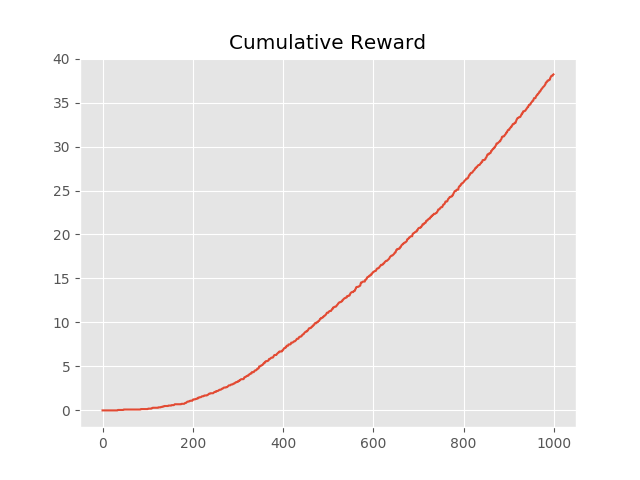
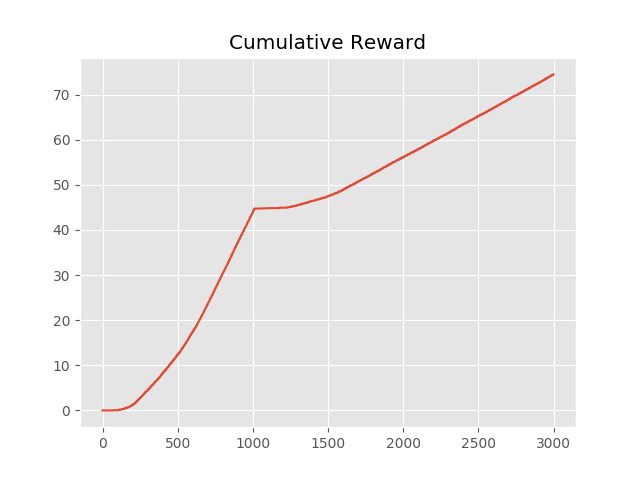
reproduce 8.4

diff --git a/hw3/dynaq.py b/hw3/dynaq.py
@@ -51,6 +51,11 @@ class plan_model(dict):
         action = self.setdefault(s,{})
         entry = action.setdefault(a,[0,{},0])
         entry[0] += 1
+        # this is for deterministic environment, for stochastic case, comment
+        # out the if clause 
+        if ss not in entry[1].keys():
+            entry[0] = 1
+            entry[1] = {}
         entry[1][ss] = entry[1].setdefault(ss,0) + 1
         entry[2] = (entry[2] * (entry[0] - 1) + r) / entry[0]
     
@@ -72,9 +77,10 @@ def dynaq(env,n=10,gamma=1.,alpha=1.,ep=0.1,max_steps=100,switch_time=-1):
     Q = np.zeros((nS,nA))
     tot_steps = 0
     rew_list = np.zeros(max_steps)
+    env.obstacles = env.old_obstacles
     while tot_steps < max_steps:
-        # if tot_steps > switch_time > 0:
-        #    env.obstacles = env.new_obstacles
+        if tot_steps > switch_time > 0:
+           env.obstacles = env.new_obstacles
         s = env.reset()
         done = False
         counter = 0
@@ -105,7 +111,6 @@ if __name__ == '__main__':
     blocking_maze.GOAL_STATES = [[0, 8]]
     old_obstacles = [[3, i] for i in range(0, 8)]
     blocking_maze.old_obstacles = old_obstacles
-    blocking_maze.obstacles = old_obstacles
 
     # new obstalces will block the optimal path
     new_obstacles = [[3, i] for i in range(1, 9)]
@@ -115,8 +120,8 @@ if __name__ == '__main__':
     # the exact step for changing will be different
     # However given that 1000 steps is long enough for both algorithms to converge,
     # the difference is guaranteed to be very small
-    obstacle_switch_time = -1
-    max_steps = 1000
+    obstacle_switch_time = 1000
+    max_steps = 3000
     runs = 20
 
     avg_rew = []
